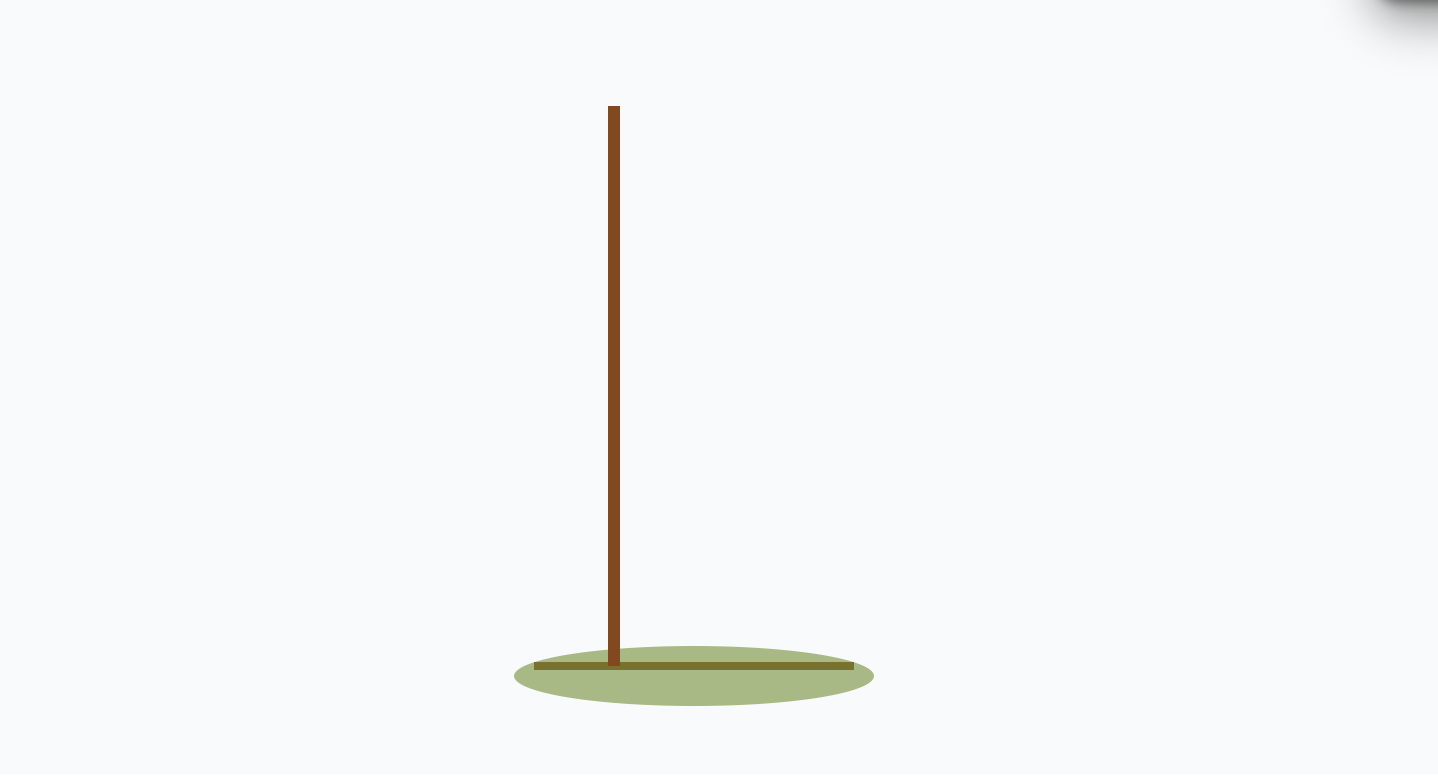
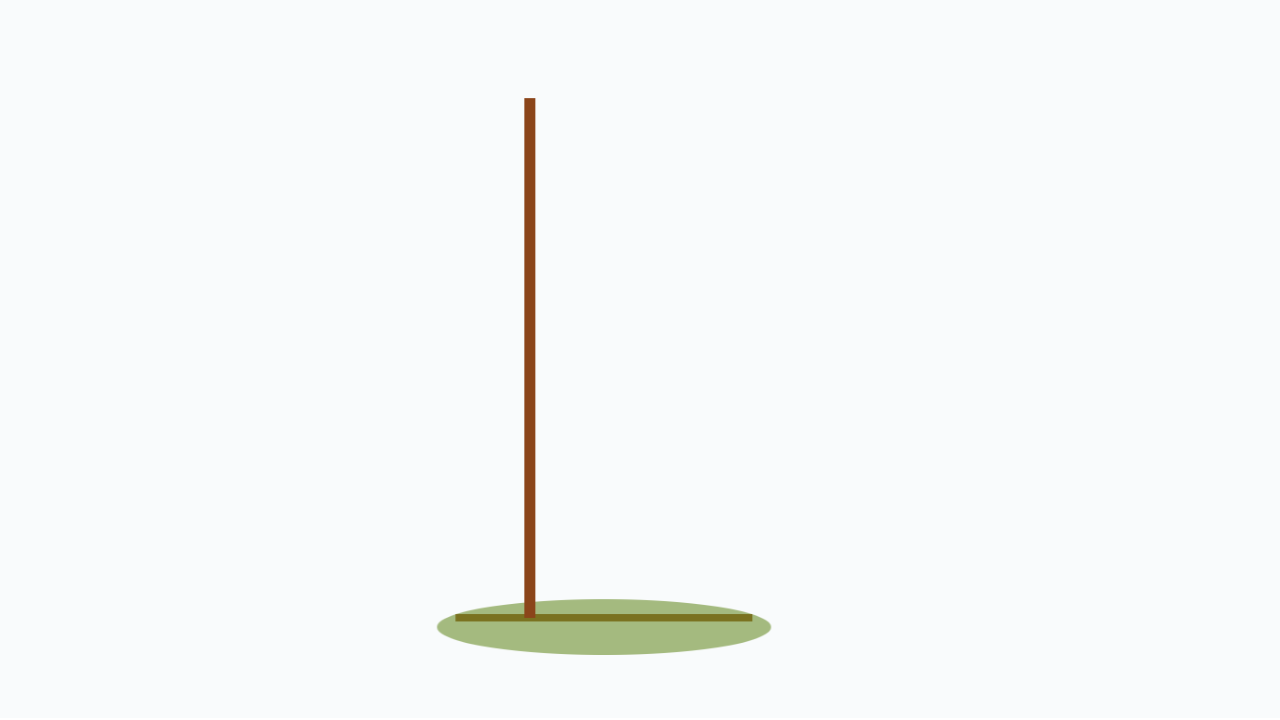
Added keyboard for screen readers, fixed images

diff --git a/src/hangman-game/hangman-game.jsx b/src/hangman-game/hangman-game.jsx
@@ -102,7 +102,7 @@ export default function HangmanGame() {
       if (playState !== "playing") return;
       // The letter was already guessed
       if (correctLetters.includes(letter) || wrongLetters.includes(letter)) {
-        setLastGuess({ letter, type: "already guessed" });
+        setLastGuess({ letter, type: "already" });
         try {
           playError();
         } catch (err) {
@@ -131,7 +131,7 @@ export default function HangmanGame() {
         }
       }
     },
-      [secretWord, correctLetters, wrongLetters, playState, playCorrect, playError]
+      [secretWord, correctLetters, wrongLetters, playState, playCorrect, playError, playWrong]
   );
 
   useEffect(() => {
@@ -156,19 +156,7 @@ export default function HangmanGame() {
   }, [secretWord, correctLetters, wrongGuesses]);
 
   
-  useEffect(() => {
-    function onKeyDown(e) {
-      if (e.ctrlKey || e.metaKey || e.altKey) return;
-      const key = e.key;
-      if (/^[a-zA-Z]$/.test(key)) {
-        e.preventDefault();
-        handleGuess(key);
-      }
-    }
-
-    window.addEventListener("keydown", onKeyDown);
-    return () => window.removeEventListener("keydown", onKeyDown);
-  }, [handleGuess]);
+  
 
 
   // Play win sound when playState becomes 'won'
@@ -182,20 +170,45 @@ export default function HangmanGame() {
     }
   }, [playState, playWin]);
 
+  // Global keyboard support for non-screen-reader users: listen for letter keys
+  useEffect(() => {
+    function onGlobalKeyDown(e) {
+      if (e.ctrlKey || e.metaKey || e.altKey) return;
+      const key = e.key;
+      if (!/^[a-zA-Z]$/.test(key)) return;
+
+      // If the user is focused in an input/textarea/contentEditable, don't intercept
+      const active = document.activeElement;
+      if (active && (active.tagName === 'INPUT' || active.tagName === 'TEXTAREA' || (active instanceof HTMLElement && active.isContentEditable))) {
+        return;
+      }
+
+      try {
+        e.preventDefault();
+      } catch (err) {
+        void err;
+      }
+      handleGuess(key);
+    }
+
+    window.addEventListener('keydown', onGlobalKeyDown);
+    return () => window.removeEventListener('keydown', onGlobalKeyDown);
+  }, [handleGuess]);
+
+  // on-screen keyboard is used instead of raw key capture for screen-reader reliability
+
   /*Pop-Up*/
   function GamePopup({
     open,
     title,
     buttonText,
     onClose,
-    soundUrl,
+    onOpenPlay,
     showConfetti,
     message
   }) {
     const buttonRef = useRef(null);
-    const audioRef = useRef(null);
 
-    
     useEffect(() => {
       if (open && buttonRef.current) {
         buttonRef.current.focus();
@@ -203,23 +216,13 @@ export default function HangmanGame() {
     }, [open]);
 
     useEffect(() => {
-      if (!open || !soundUrl) return;
-
-      const audio = new Audio(soundUrl);
-      audioRef.current = audio;
-      audio.play().catch(() => {
-       
-      });
-
-
-
-      return () => {
-        if (audioRef.current) {
-          audioRef.current.pause();
-          audioRef.current = null;
-        }
-      };
-    }, [open, soundUrl]);
+      if (!open || typeof onOpenPlay !== 'function') return;
+      try {
+        onOpenPlay();
+      } catch (err) {
+        void err;
+      }
+    }, [open, onOpenPlay]);
 
     if (!open) return null;
 
@@ -275,13 +278,16 @@ export default function HangmanGame() {
         )}
       </div>
 
-      <div className="container">
-        <img
-          src={images[wrongGuesses].src}
-          alt={images[wrongGuesses].alt}
-          className="picture"
-          tabIndex="0"
-        />
+      <div className="container" aria-label="Hangman game area; use the on-screen keyboard to guess letters">
+        <div className="picture-container">
+          <img
+            src={images[wrongGuesses].src}
+            alt={images[wrongGuesses].alt}
+            className="picture"
+            tabIndex="0"
+          />
+        </div>
+        {/* Right column: popups + info */}
       <div>
         {/* Lose popup */}
         {playState === "lost" && (
@@ -290,7 +296,7 @@ export default function HangmanGame() {
             title="You lose 😢"
             buttonText="Try Again"
             onClose={restartGame}
-            soundUrl="/sounds/lose.mp3"
+            onOpenPlay={playWrong}
             showConfetti={false}
             message={`The word was: ${secretWord}`}
           />
@@ -321,6 +327,31 @@ export default function HangmanGame() {
             <strong>Remaining guesses:</strong>{" "}
             {Math.max(0, maxWrong - wrongGuesses)} / {maxWrong}
           </p>
+        </div>
+      </div>
+
+      {/* Keyboard row centered below image/info */}
+      <div className="keyboard-row" aria-hidden={false}>
+        <div id="onscreen-keys" className="letter-grid" role="group" aria-label="On-screen keyboard">
+          {Array.from({ length: 26 }).map((_, i) => {
+            const letter = String.fromCharCode(65 + i);
+            const isCorrect = correctLetters.includes(letter);
+            const isWrong = wrongLetters.includes(letter);
+            const used = isCorrect || isWrong;
+            const btnClass = `letter-btn ${isCorrect ? 'used-correct' : isWrong ? 'used-wrong' : ''}`;
+            return (
+              <button
+                key={letter}
+                className={btnClass}
+                onClick={() => handleGuess(letter)}
+                aria-label={`Letter ${letter}`}
+                aria-pressed={used}
+                disabled={used}
+              >
+                {letter}
+              </button>
+            );
+          })}
         </div>
       </div>
 

diff --git a/src/hangman-game/hang-man.css b/src/hangman-game/hang-man.css
@@ -12,9 +12,9 @@
   }
 
 .container{
-    display: flex;
-    flex-direction: row;
-    align-items: flex-start;
+  display: flex;
+  flex-direction: row;
+  align-items: stretch; /* ensure both columns match height */
     gap: 24px;
     margin-top: 24px;
     width: 95%;
@@ -25,11 +25,24 @@
   }
 
   .picture{
-  width: 48%;
-  max-width: 720px;
-    height: auto;
+  width: 100%;
+    height: 100%;
     object-fit: contain;
     display: block;
+  }
+
+  .picture-container {
+    flex: 0 0 48%;
+    max-width: 720px;
+    height: 50vh; /* fixed viewport-relative height */
+    min-height: 220px;
+    display: flex;
+    align-items: center;
+    justify-content: center;
+    background: rgba(255,255,255,0.9);
+    border-radius: 12px;
+    padding: 8px;
+    overflow: hidden; /* prevent image from growing the container */
   }
 
   .textContainer{
@@ -47,6 +60,10 @@
     display: flex;
     flex-direction: column;
     gap: 8px;
+    overflow: auto; /* allow internal scroll if content taller than image container */
+    flex: 0 0 48%;
+    box-sizing: border-box;
+    height: 50vh; /* match picture-container so both columns keep same height */
   }
 
   /* visually-hidden helper for screen-reader-only content */
@@ -69,22 +86,92 @@
     color: #072245;
   }
 
+  /* Visible focus for the playable area so screen-reader users know it's focused */
+  .container:focus {
+    outline: 4px solid #ffd27f;
+    outline-offset: 6px;
+  }
+
+  .keyboard-controls {
+    display: flex;
+    gap: 8px;
+    margin-bottom: 12px;
+  }
+
+  .letter-grid {
+    display: grid;
+    grid-template-columns: repeat(13, minmax(36px, 1fr));
+    gap: 6px;
+    margin: 8px 0 16px 0;
+    width: min(920px, 100%);
+  }
+
+  .letter-btn {
+    padding: 8px 10px;
+    border-radius: 6px;
+    border: 1px solid #cfcfcf;
+    background: #fff;
+    cursor: pointer;
+    font-weight: 600;
+    color: #072245;
+  }
+
+  .letter-btn:focus {
+    outline: 3px solid #ffd27f;
+    outline-offset: 2px;
+  }
+
+  /* Used key states */
+  .letter-btn.used-correct {
+    background: #2e7d32; /* green */
+    color: #fff;
+    border-color: #1b5e20;
+  }
+
+  .letter-btn.used-wrong {
+    background: #c62828; /* red */
+    color: #fff;
+    border-color: #8e0000;
+  }
+
+  .letter-btn:disabled {
+    cursor: default;
+    opacity: 0.85;
+  }
+
   @media (max-width: 700px) {
     .container {
       flex-direction: column;
       align-items: center;
       gap: 12px;
     }
+    .picture-container {
+      width: 100%;
+      height: 38vh;
+    }
     .picture {
-      width: 80%;
-      max-height: 75vh;
-      max-width: 400px;
+      max-height: 100%;
+      max-width: 100%;
+      width: auto;
+      height: 100%;
+      object-fit: contain;
+      display: block;
     }
     .textContainer {
       width: 100%;
       text-align: center;
       min-width: 0;
+      height: 38vh; /* match picture-container on small screens */
+      box-sizing: border-box;
     }
+  }
+
+  .keyboard-row {
+    display: flex;
+    justify-content: center;
+    width: 100%;
+    margin-top: 12px;
+    padding: 8px 0 24px 0;
   }
 
 .overlay {
